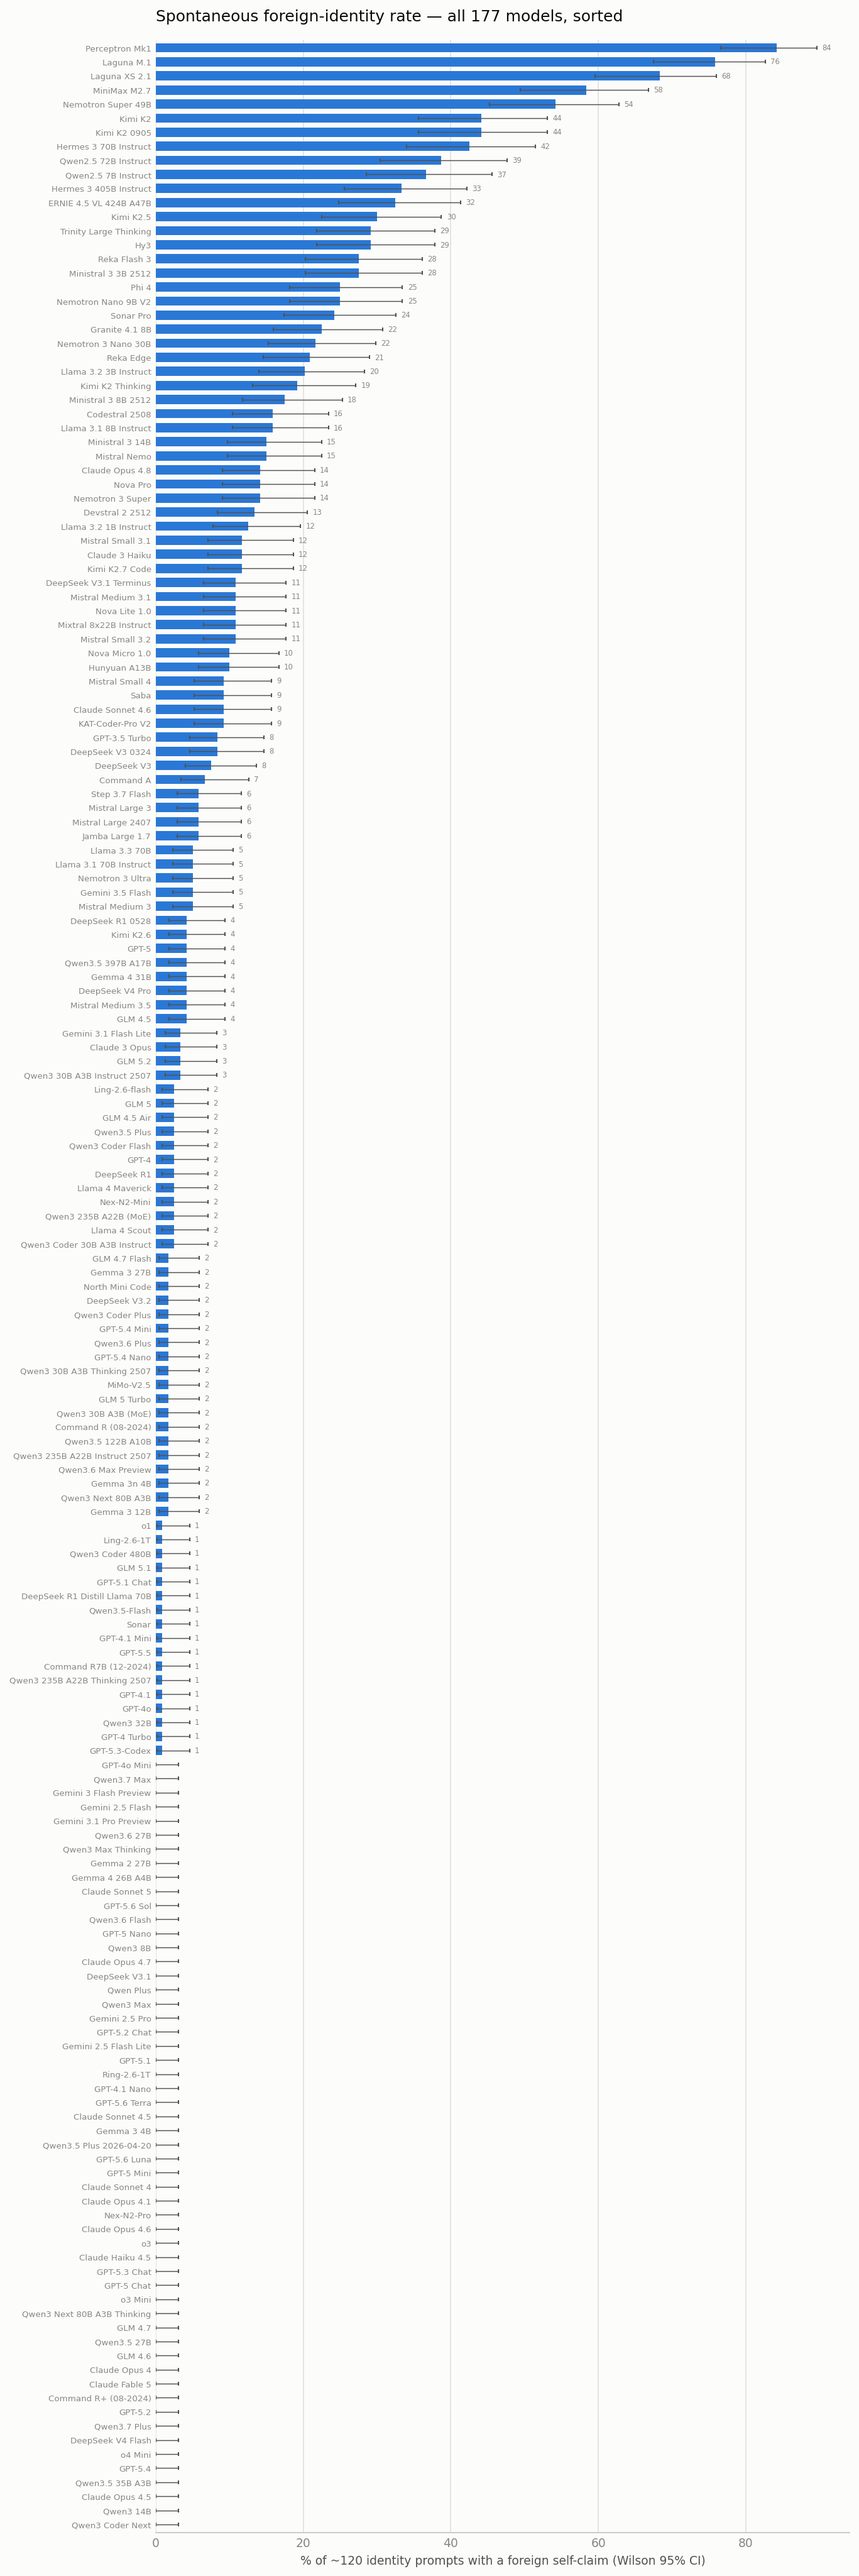
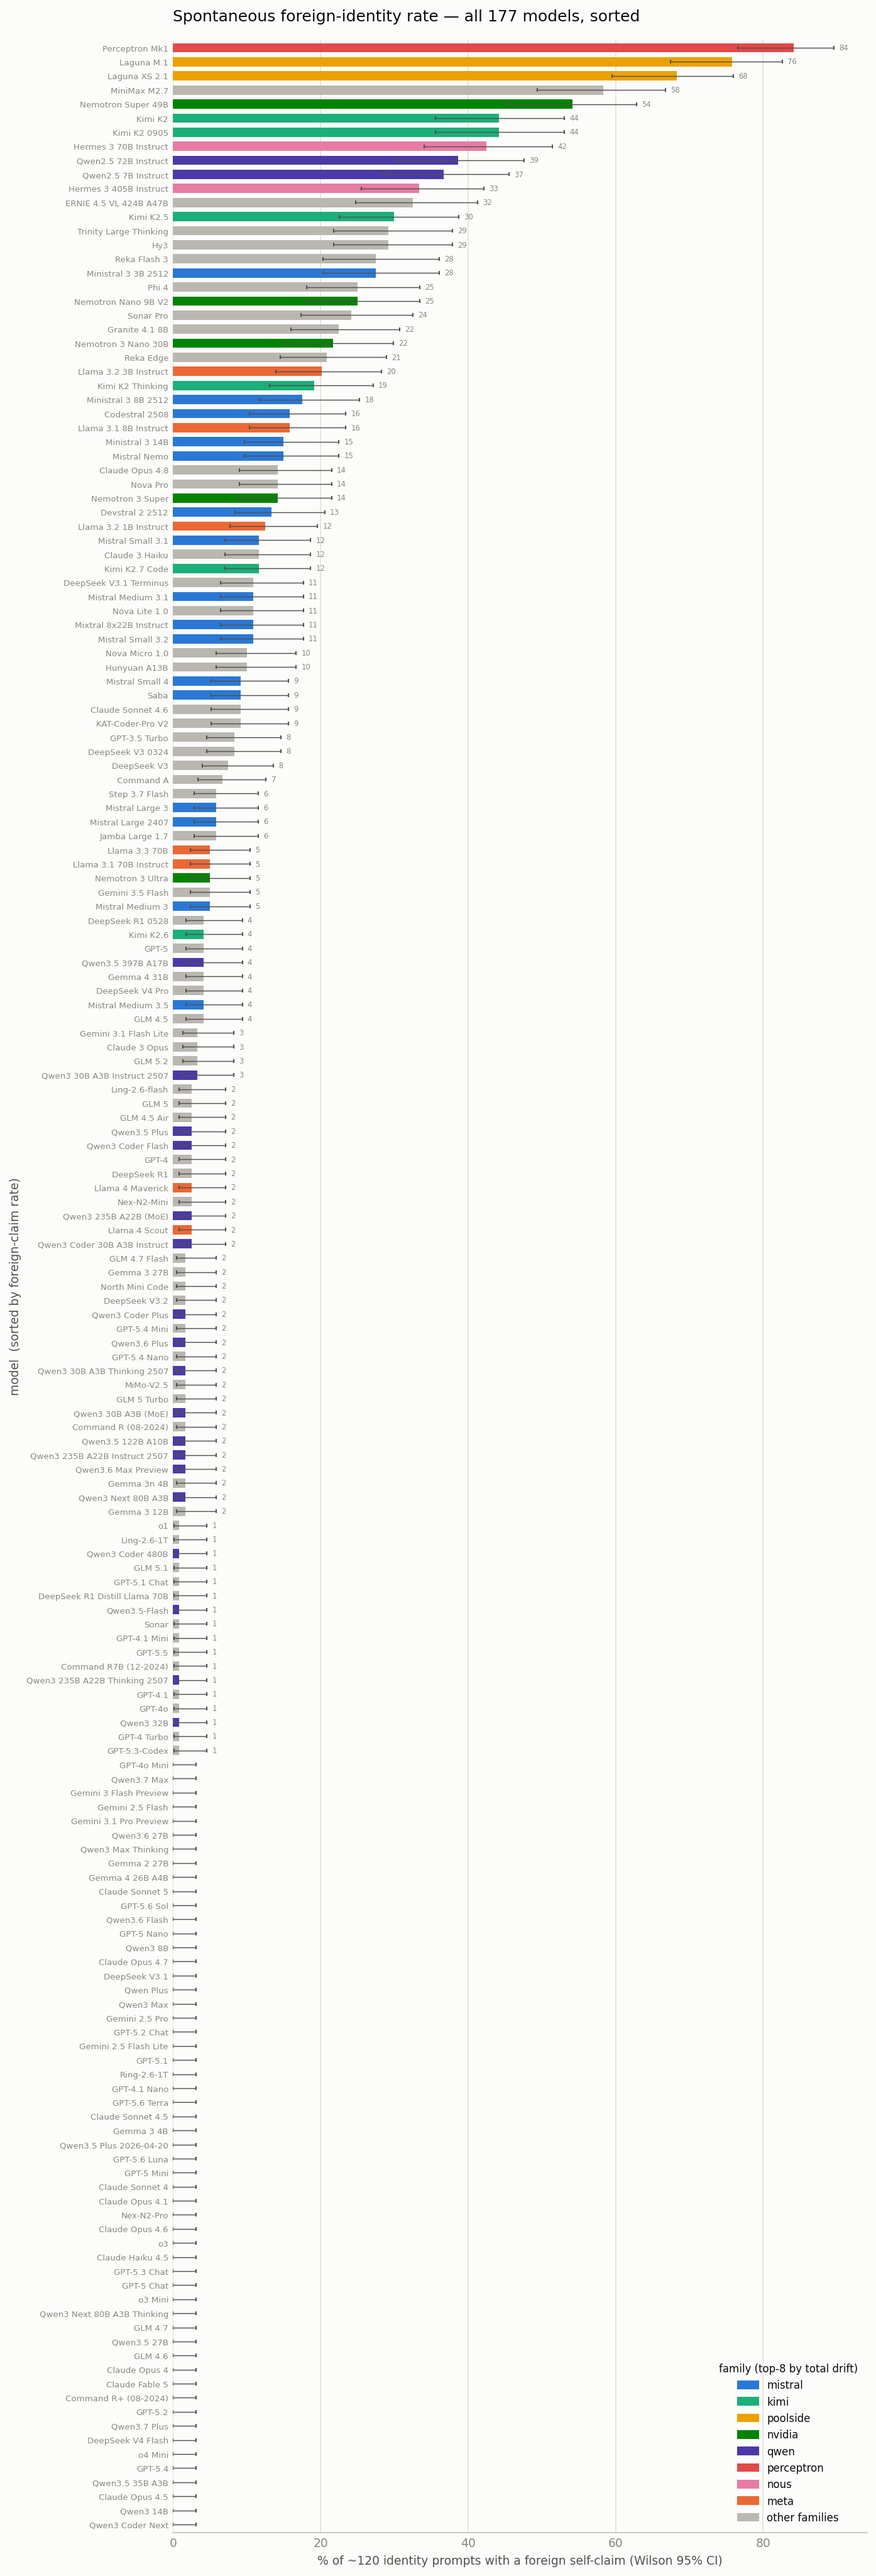
figA: family-colored bars + legend + y-label; figB: family labels in margin
Claude-Session: https://claude.ai/code/session_01Anj4JvuNgPGS3kunnJgPkZ

diff --git a/sweep/make_big_figs.py b/sweep/make_big_figs.py
@@ -101,18 +101,33 @@ def figA(reg, per):
         if f not in fam_hue:
             fam_hue[f] = CAT[len(fam_hue) % 5]
 
+    # hue per family: 8 highest-total-drift families get colors, rest grey
+    fam_drift = defaultdict(float)
+    for (mid, v), f in zip(items, fams):
+        fam_drift[f] += v["d"]
+    top_fams = [f for f, _ in sorted(fam_drift.items(), key=lambda x: -x[1])[:8]]
+    CAT8 = ["#2a78d6", "#1baf7a", "#eda100", "#008300", "#4a3aa7", "#e34948", "#e87ba4", "#eb6834"]
+    fam_color = {f: CAT8[i] for i, f in enumerate(top_fams)}
+    colors = [fam_color.get(f, "#b9b7b0") for f in fams]
+
     fig, ax = plt.subplots(figsize=(9.5, 0.185 * n + 1.6))
-    ax.barh(np.arange(n), rates, height=0.66, color=CAT[0], zorder=3)
+    ax.barh(np.arange(n), rates, height=0.66, color=colors, zorder=3)
     ax.errorbar(rates, np.arange(n), xerr=errs, fmt="none",
                 ecolor=INK2, elinewidth=0.7, capsize=1.5, zorder=4)
     ax.set_yticks(np.arange(n), names, fontsize=6.4)
     ax.set_ylim(-0.6, n - 0.4)
+    ax.set_ylabel("model  (sorted by foreign-claim rate)", fontsize=9)
     ax.set_xlabel("% of ~120 identity prompts with a foreign self-claim (Wilson 95% CI)")
     ax.set_axisbelow(True)
     ax.xaxis.grid(True, color=GRID, lw=0.8)
     for i, r in enumerate(rates):
         if r > 0:
             ax.text(r + errs[1][i] + 0.7, i, f"{r:.0f}", va="center", fontsize=5.6, color=MUTED)
+    from matplotlib.patches import Patch
+    handles = [Patch(color=fam_color[f], label=f) for f in top_fams] + \
+              [Patch(color="#b9b7b0", label="other families")]
+    ax.legend(handles=handles, loc="lower right", frameon=False, fontsize=8,
+              title="family (top-8 by total drift)", title_fontsize=8)
     style(ax)
     ax.set_title(f"Spontaneous foreign-identity rate — all {n} models, sorted",
                  loc="left", fontsize=12, pad=14)
@@ -157,10 +172,18 @@ def figB(reg, per):
     ax.set_yticks(range(n), [reg.get(m, {}).get("name", m) for m in mids], fontsize=6.4)
     # family separators
     fams = [reg.get(m, {}).get("family", "?") for m in mids]
+    group_starts = [0] + [i for i in range(1, n) if fams[i] != fams[i - 1]]
     for i in range(1, n):
         if fams[i] != fams[i - 1]:
             ax.axhline(i - 0.5, color=SURFACE, lw=2)
             ax.axhline(i - 0.5, color=GRID, lw=0.8)
+    for gi, start in enumerate(group_starts):
+        end = group_starts[gi + 1] if gi + 1 < len(group_starts) else n
+        ax.text(-0.02, (start + end - 1) / 2, fams[start], transform=ax.get_yaxis_transform(),
+                ha="right", va="center", fontsize=7, color=INK2, style="italic",
+                clip_on=False)
+    ax.set_ylabel("")
+    ax.tick_params(axis="y", pad=64)
     style(ax, bottom=False)
     cb = fig.colorbar(im, ax=ax, shrink=0.35, pad=0.02, anchor=(0, 0.9))
     cb.set_label("% of records claiming that identity", fontsize=8, color=INK2)
